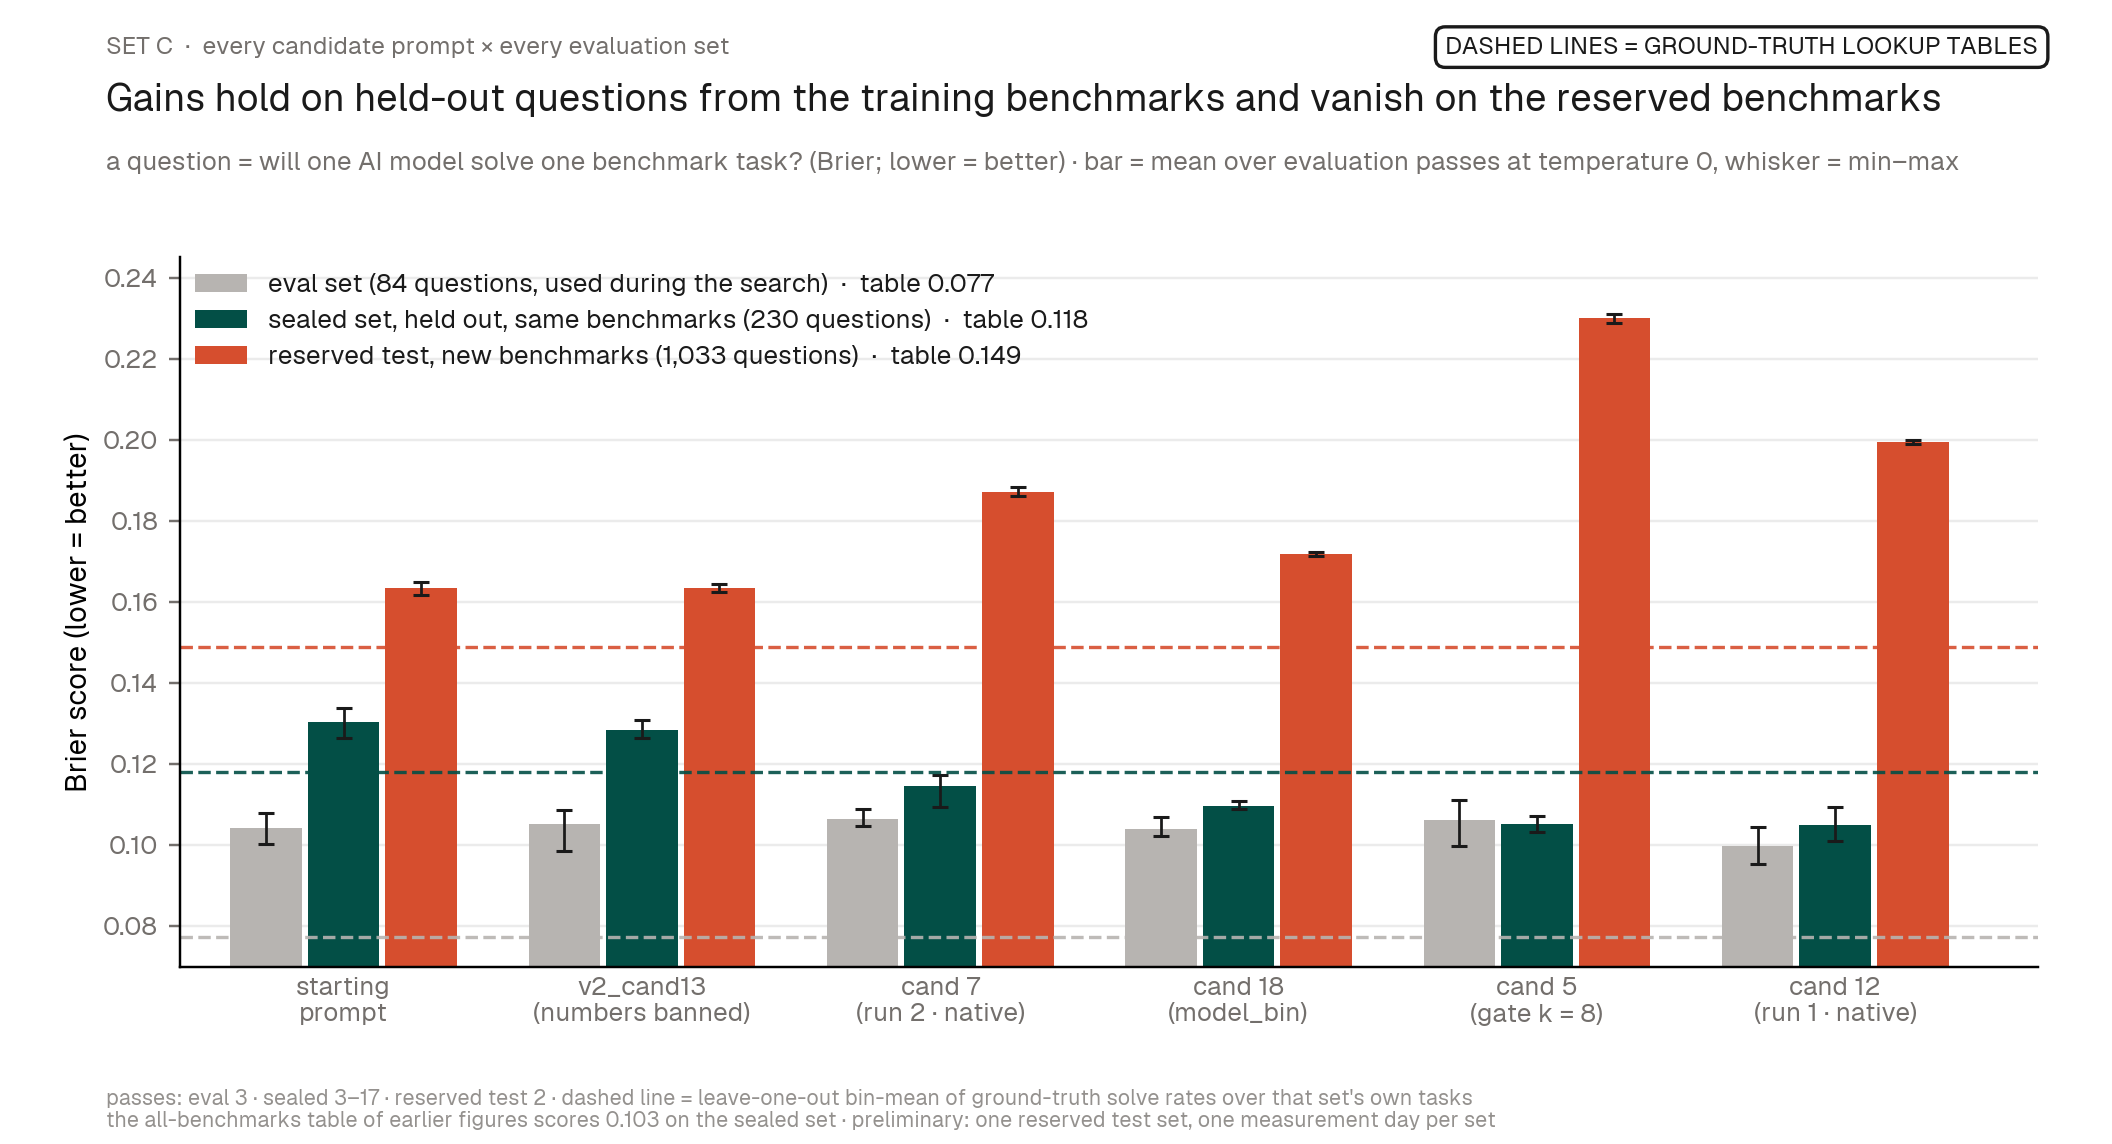
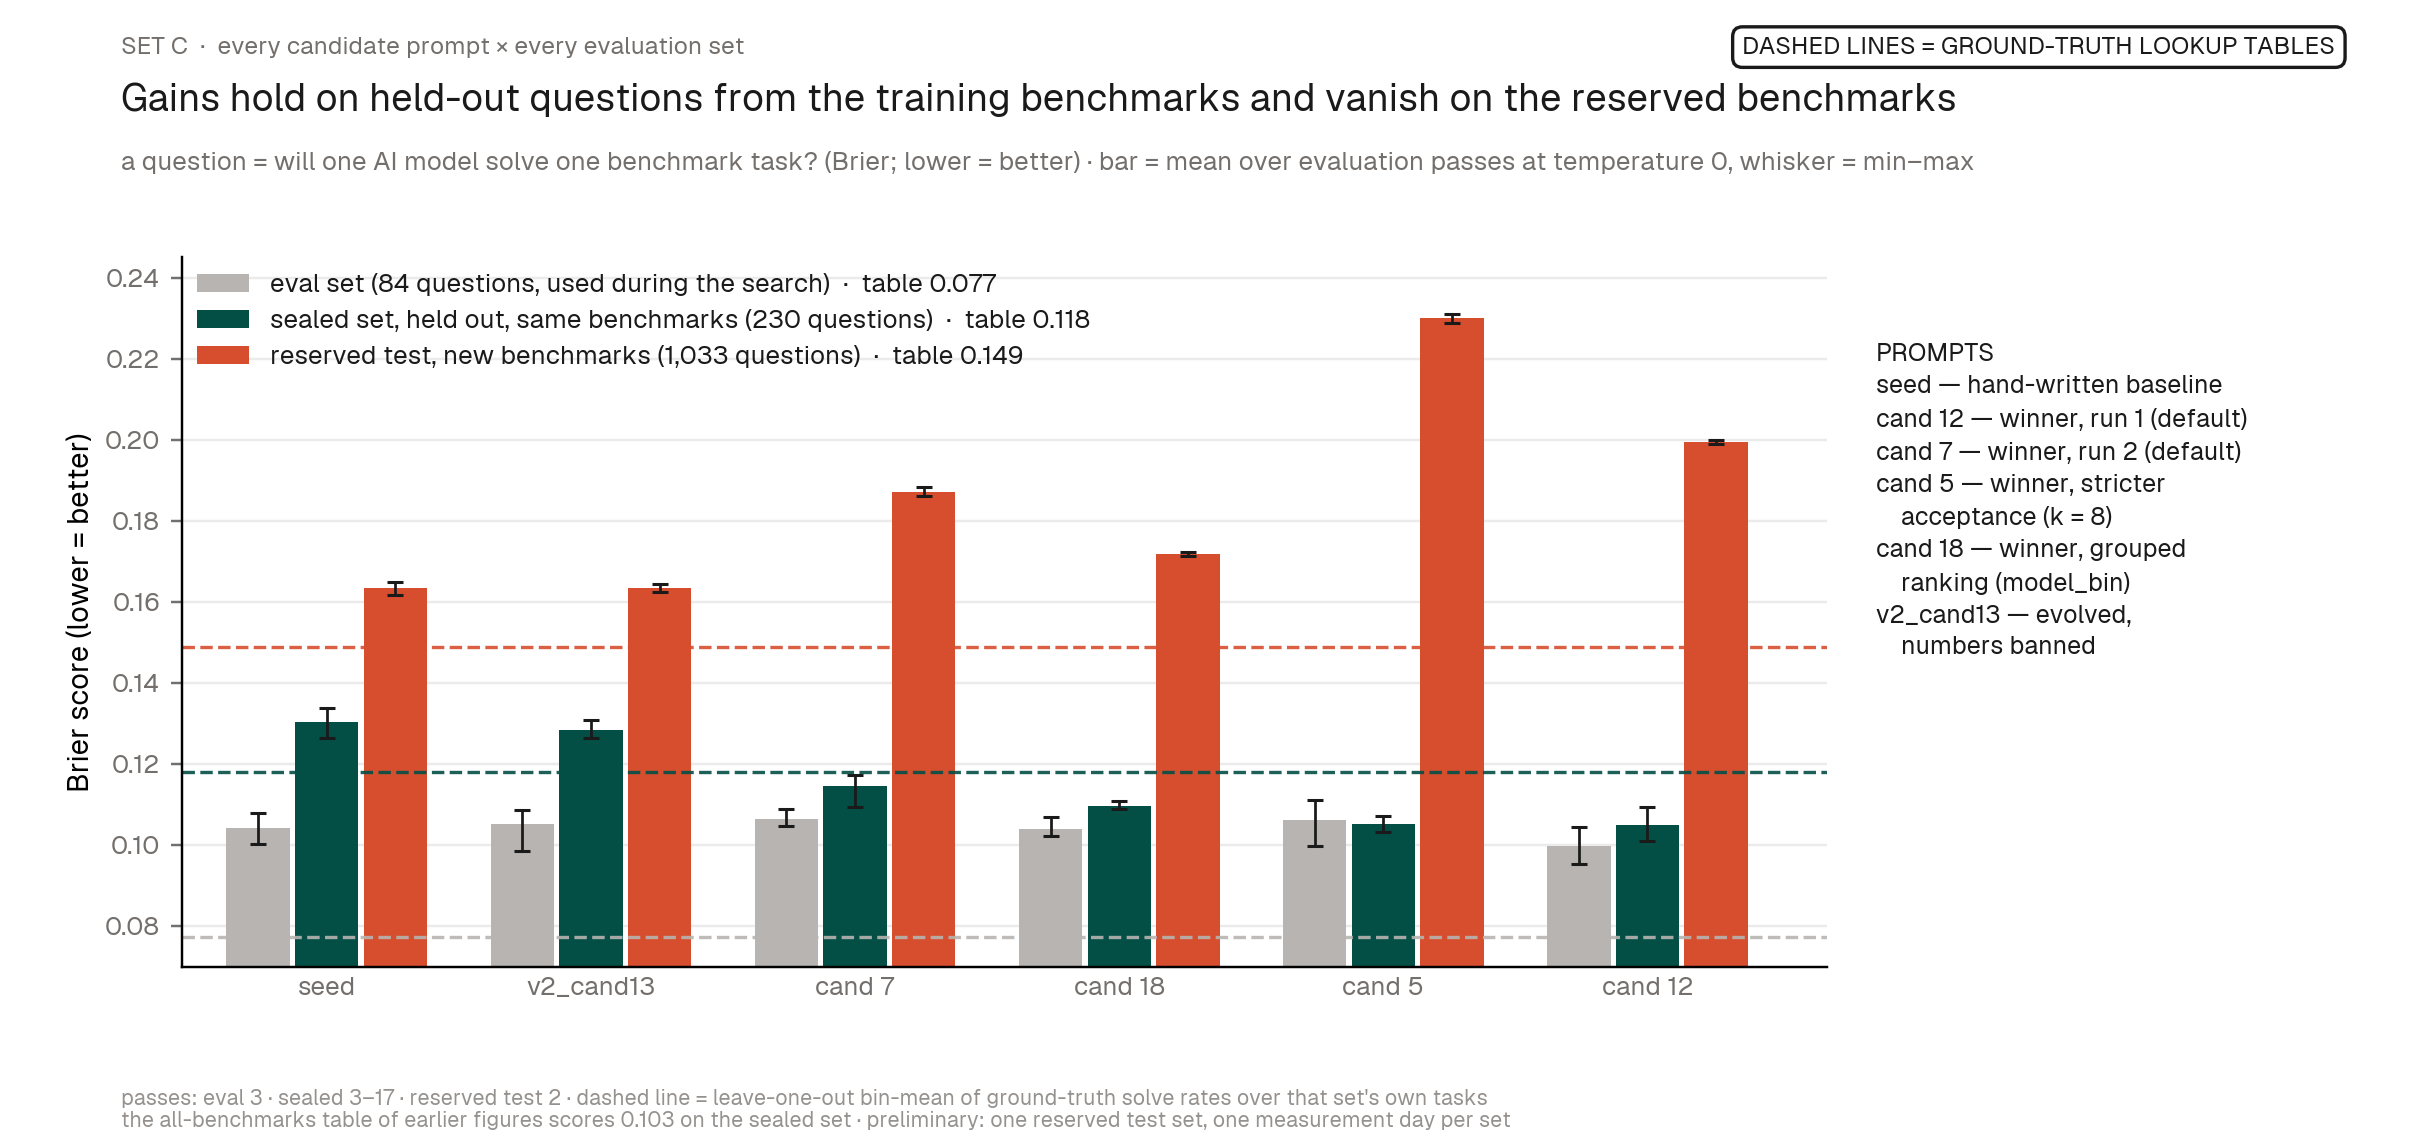
fig17/fig19: prompt roster panel, short canonical names (seed, cand N)
Each figure defines every prompt once in a PROMPTS panel; axis labels and
text use the bare names. Canonical naming for all future charts and posts.

Changed region(s): [[0.0312, 0.2142, 0.9688, 0.8872], [0.0625, 0.0, 0.9688, 0.153], [0.0312, 0.9484, 0.6875, 1.0]]

diff --git a/intra_benchmark_calibration/experiments/III_gepa_optimization/summary/make_fig17.py b/intra_benchmark_calibration/experiments/III_gepa_optimization/summary/make_fig17.py
@@ -48,20 +48,29 @@ for (t, m), y in outcome.items():
 TABLE = statistics.mean(gt)
 
 SOFTBAR = "#b7b4b1"
-bars = [("seed", "starting\nprompt", MUTED),
-        ("v2_cand13", "evolved,\nnumbers banned\n(v2_cand13)", SOFTBAR),
-        ("ablate_numeric_bands_only", "seed +\nnumeric bands\n(probe)", SOFTBAR),
-        ("ablate_procedure_only", "seed +\nprocedure\n(probe)", SOFTBAR),
-        ("clean_cand7", "winner, run 2\n(clean_cand7,\nin-dist +0.016)", VERM),
-        ("july_cand12", "winner, run 1\n(july_cand12,\nin-dist +0.026)", VERM),
-        ("joint_cand5", "winner, gate k=8\n(joint_cand5,\nin-dist +0.025)", VERM)]
+bars = [("seed", "seed", MUTED),
+        ("v2_cand13", "v2_cand13", SOFTBAR),
+        ("ablate_numeric_bands_only", "bands\nprobe", SOFTBAR),
+        ("ablate_procedure_only", "procedure\nprobe", SOFTBAR),
+        ("clean_cand7", "cand 7", VERM),
+        ("july_cand12", "cand 12", VERM),
+        ("joint_cand5", "cand 5", VERM)]
+ROSTER = ("PROMPTS\n"
+          "seed — hand-written baseline\n"
+          "cand 12 — winner, run 1 (default);\n    sealed gain +0.026\n"
+          "cand 7 — winner, run 2 (default);\n    sealed gain +0.016\n"
+          "cand 5 — winner, stricter\n    acceptance (k = 8); +0.025\n"
+          "v2_cand13 — evolved,\n    numbers banned\n"
+          "bands probe — seed + winner's\n    numeric ranges only\n"
+          "procedure probe — seed +\n    winner's reasoning rules only")
 
-fig, ax = plt.subplots(figsize=(9.4, 4.8), dpi=220)
-fig.subplots_adjust(top=0.76, bottom=0.20, left=0.09, right=0.965)
+fig, ax = plt.subplots(figsize=(11.0, 4.8), dpi=220)
+fig.subplots_adjust(top=0.76, bottom=0.13, left=0.08, right=0.74)
+fig.text(0.76, 0.70, ROSTER, fontsize=8.0, color=INK, ha="left", va="top",
+         linespacing=1.5)
 fig.text(0.055, 0.965, "THE RESERVED TEST  ·  CVEBench + CyberGym, first and only use",
          fontsize=8, color=MUTED, ha="left", va="top")
-fig.text(0.055, 0.925, "On the reserved benchmarks, the optimized prompts fall behind "
-         "the starting prompt", fontsize=12.5, color=INK, ha="left", va="top",
+fig.text(0.055, 0.925, "On the reserved benchmarks, the optimized prompts fall behind the seed", fontsize=12.5, color=INK, ha="left", va="top",
          fontweight="bold")
 fig.text(0.055, 0.862, "1,033 questions = 94 frozen tasks × 11 AI models · a question = will "
          "one AI model solve one benchmark task? (Brier; lower = better)",
@@ -90,8 +99,7 @@ ax.grid(axis="y", color=HAIR, lw=0.8); ax.set_axisbelow(True)
 ax.tick_params(colors=MUTED, labelsize=8.5); ax.tick_params(axis="x", length=0)
 fig.text(0.05, 0.012,
          "whisker = min–max over 2 repeat evaluations (repeats differ by ≤0.003) · on the "
-         "in-distribution held-out set the order reverses: every red bar beats the starting "
-         "prompt there\npaired on the same cells, all three winners are significantly worse "
+         "in-distribution held-out set the order reverses: every red bar beats the seed there\npaired on the same cells, all three winners are significantly worse "
          "than the starting prompt here (t = 6.9–11.5, n = 1,033) · every prompt sees evidence "
          "from the training benchmarks only\npreliminary: one reserved test set, one "
          "measurement day",

diff --git a/intra_benchmark_calibration/experiments/III_gepa_optimization/summary/make_fig19.py b/intra_benchmark_calibration/experiments/III_gepa_optimization/summary/make_fig19.py
@@ -77,12 +77,20 @@ COLORS = {"search": GRAY, "sealed": GREEN, "test": VERM}
 LABELS = {"search": "eval set (84 questions, used during the search)",
           "sealed": "sealed set, held out, same benchmarks (230 questions)",
           "test": "reserved test, new benchmarks (1,033 questions)"}
-XLAB = {"seed": "starting\nprompt", "v2_cand13": "v2_cand13\n(numbers banned)",
-        "clean_cand7": "cand 7\n(run 2 · native)", "modelbin_cand18": "cand 18\n(model_bin)",
-        "joint_cand5": "cand 5\n(gate k = 8)", "july_cand12": "cand 12\n(run 1 · native)"}
+XLAB = {"seed": "seed", "v2_cand13": "v2_cand13", "clean_cand7": "cand 7",
+        "modelbin_cand18": "cand 18", "joint_cand5": "cand 5", "july_cand12": "cand 12"}
+ROSTER = ("PROMPTS\n"
+          "seed — hand-written baseline\n"
+          "cand 12 — winner, run 1 (default)\n"
+          "cand 7 — winner, run 2 (default)\n"
+          "cand 5 — winner, stricter\n    acceptance (k = 8)\n"
+          "cand 18 — winner, grouped\n    ranking (model_bin)\n"
+          "v2_cand13 — evolved,\n    numbers banned")
 
-fig, ax = plt.subplots(figsize=(9.6, 5.2), dpi=220)
-fig.subplots_adjust(top=0.775, bottom=0.155, left=0.085, right=0.965)
+fig, ax = plt.subplots(figsize=(11.0, 5.2), dpi=220)
+fig.subplots_adjust(top=0.775, bottom=0.155, left=0.075, right=0.755)
+fig.text(0.775, 0.70, ROSTER, fontsize=8.2, color=INK, ha="left", va="top",
+         linespacing=1.55)
 fig.text(0.05, 0.968, "SET C  ·  every candidate prompt × every evaluation set",
          fontsize=8, color=MUTED, ha="left", va="top")
 fig.text(0.05, 0.928, "Gains hold on held-out questions from the training benchmarks "
